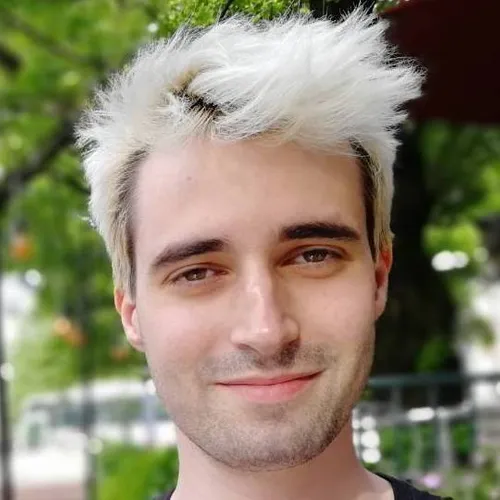
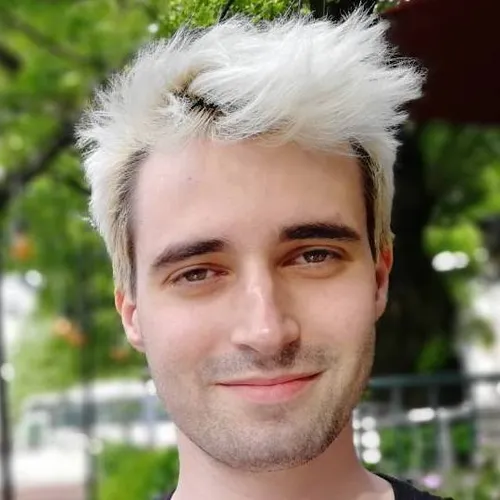
update image resolution

diff --git a/docs/index.html b/docs/index.html
@@ -183,16 +183,16 @@
             <source
               media="(min-width: 40em)"
               type="image/webp"
-              srcset="img/hero_cropped_300w.webp 1x, img/hero_cropped_500w.webp 2x"
+              srcset="img/hero_cropped_250w.webp 1x, img/hero_cropped_500w.webp 2x"
             />
-            <source type="image/webp" srcset="img/hero_800w.webp 1x, img/hero_1200w.webp 2x" />
             <source
               media="(min-width: 40em)"
               type="image/jpeg"
-              srcset="img/hero_cropped_300w.jpg 1x, img/hero_cropped_500w.jpg 2x"
+              srcset="img/hero_cropped_250w.jpeg 1x, img/hero_cropped_250w.jpeg 2x"
             />
-            <source type="image/jpeg" srcset="img/hero_800w.jpg 1x, img/hero_1200w.jpg 2x" />
-            <img src="img/hero_cropped_300w.jpg" class="hero-image" alt="Lachlan Bradford" />
+            <source type="image/webp" srcset="img/hero_600w.webp 1x, img/hero_1200w.webp 2x" />
+            <source type="image/jpeg" srcset="img/hero_600w.jpeg 1x, img/hero_1200w.jpeg 2x" />
+            <img src="img/hero_cropped_250w.jpeg" class="hero-image" alt="Lachlan Bradford" />
           </picture>
         </div>
         <div class="page-intro">
